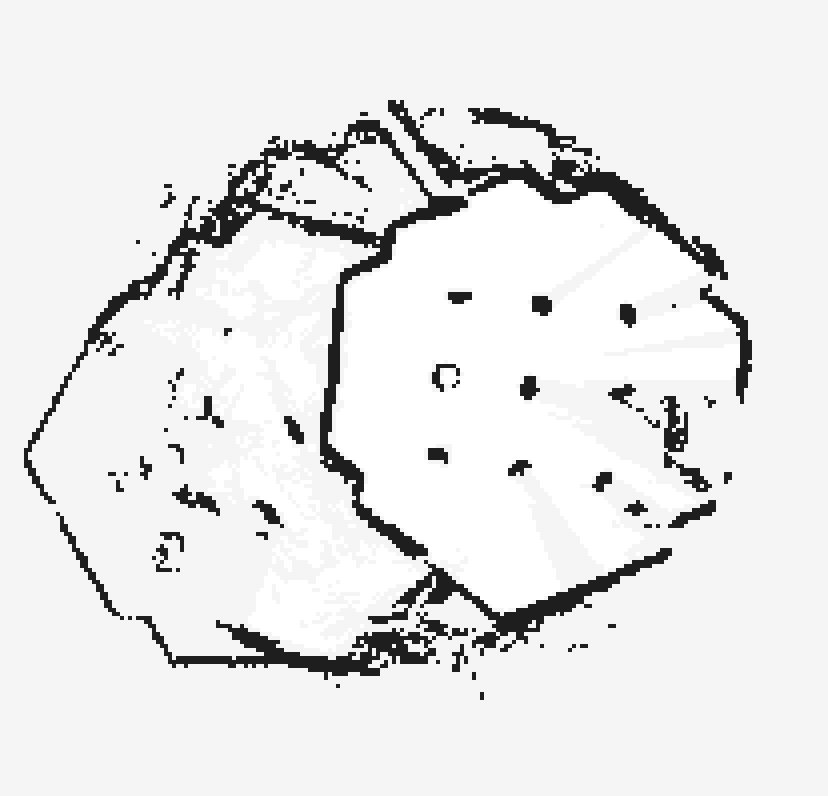
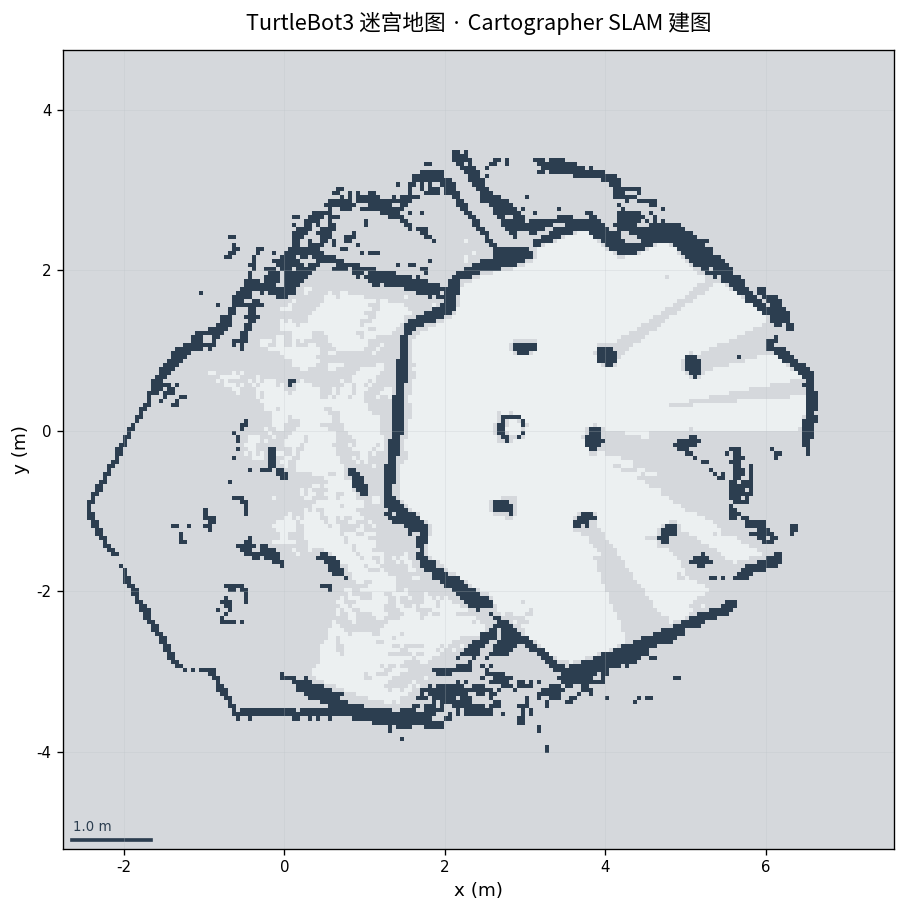
打磨 README：修复章节编号/死链/测试数，新增快速开始，美化地图可视化
- 修复章节编号乱序（### 3 重复、5 后接 3/4）
- 修复文档导航死链（references/ 不存在 → 指向真实 docs/）
- 修正测试数（11 → 15，实测 15 个全通过）
- 新增快速开始章节（算法 + 仿真两条路径）
- 成果表补充 Informed RRT* / 测试数 / 仿真验证
- room_map.png 用 matplotlib 重绘（坐标轴/比例尺/中文字体）

diff --git a/README.md b/README.md
@@ -7,12 +7,13 @@
 
 | 项 | 结果 |
 |---|---|
-| **手写算法库** | A\* / RRT\* / DWA（可独立运行）|
-| **MATLAB 对比** | 同一算法三实现验证 |
+| **手写算法库** | A\* / RRT\* / Informed RRT\* / DWA（可独立运行）|
+| **算法测试** | 15 个测试全部通过 |
+| **MATLAB 对比** | 同一算法三实现交叉验证 |
 | **知识体系** | 7 篇（算法→体系→应用）|
-| **巡检导航** | Gazebo 建图 → Nav2 导航全流程跑通（Ubuntu）|
+| **仿真验证** | Gazebo 建图 → Nav2 导航全流程跑通（Ubuntu）|
 
-![三算法演示](results/algorithms_demo.png)
+![四算法对比演示](results/all_algorithms.png)
 
 ## 🎯 核心方法论
 
@@ -79,7 +80,7 @@ result = plan(planner, start, goal)  # 统一调用
 - DWA 实时避障到达目标
 
 ### 2. 算法测试（可靠性验证）
-**11 个测试全通过**（`tests/`）：
+**15 个测试全通过**（`tests/`）：
 - A*：找路径/无路径/最优性/高效性/平滑
 - RRT*：找路径/达目标/无碰撞
 - DWA：到达目标/避障/输出合理
@@ -100,7 +101,7 @@ result = plan(planner, start, goal)  # 统一调用
 - 手写 A*（324 节点）+ Navigation Toolbox（plannerAStarGrid）
 - **科研意义**：三种实现（Python/MATLAB/Toolbox）交叉验证
 
-### 3. 巡检导航（TurtleBot3 + Nav2）
+### 6. 巡检导航（TurtleBot3 + Nav2 仿真）
 - ✅ 环境搭建（Gazebo + TurtleBot3 + Nav2）
 - ✅ SLAM 建图流程（Cartographer + 自动移动建图）
 - ✅ Nav2 完整导航（Ubuntu 仿真跑通，自主到达目标点）
@@ -112,7 +113,7 @@ result = plan(planner, start, goal)  # 统一调用
 - **实测**：`(0.03,-0.84) → (1.5,1.5)` 与 `(1.5,1.5) → (-1.5,-1.5)` 均自主到达 ✅
 - **踩坑收获**：解决 3 处 ROS2 QoS 兼容性（雷达 BEST_EFFORT / 初始位姿订阅）
 
-### 4. 知识体系（7 篇，算法→体系→应用）
+### 7. 知识体系（7 篇，算法→体系→应用）
 - 01 基础与体系（导航系统全景）
 - 02 全局规划（A*/RRT 原理与对比）
 - 03 局部规划（DWA 实时避障）
@@ -120,6 +121,25 @@ result = plan(planner, start, goal)  # 统一调用
 - 05 导航闭环（MATLAB vs 实际部署）
 - 06 MATLAB 科研实战（A* 对比详解）
 - 07 ROS2 仿真实战（Gazebo 建图 → Nav2 导航 + QoS 踩坑）
+
+## 🚀 快速开始
+
+**算法演示**（纯 Python，无需 ROS）：
+```bash
+pip install -r requirements.txt
+python algorithms/demo_all_algorithms.py   # 四算法对比可视化
+python -m pytest tests/ -q -p no:anyio     # 15 个测试
+```
+
+**仿真验证**（Ubuntu 22.04 + ROS2 Humble，详见 [07-ROS2仿真实战](docs/07-ROS2仿真实战.md)）：
+```bash
+ros2 launch turtlebot3_gazebo turtlebot3_world.launch.py                                  # ① Gazebo 世界
+ros2 launch turtlebot3_cartographer cartographer.launch.py use_sim_time:=True             # ② Cartographer 建图
+python robot/explore_laser.py 90                                                          # ③ 自动探索（激光避障）
+ros2 run nav2_map_server map_saver_cli -f ~/map/room                                      # ④ 保存地图
+ros2 launch turtlebot3_navigation2 navigation2.launch.py map:=~/map/room.yaml use_sim_time:=True  # ⑤ Nav2 导航
+python robot/nav_goal.py 1.5 1.5                                                          # ⑥ 自主导航到目标
+```
 
 ## 🔄 进行中 / 待完善
 
@@ -131,9 +151,14 @@ result = plan(planner, start, goal)  # 统一调用
 
 | 文档 | 内容 |
 |---|---|
-| [作品集方案](references/m5-作品集方案.md) | 调研确认的完整方案 |
-| [知识图谱](references/m5-路径规划知识图谱.md) | 三层认知框架 |
-| [PCB 全景蓝图](references/m5-pcb全景蓝图.md) | 硬件分支规划 |
+| [01-路径规划基础与体系](docs/01-路径规划基础与体系.md) | 导航系统全景 |
+| [02-全局规划算法](docs/02-全局规划算法.md) | A\* / RRT 原理与对比 |
+| [03-局部规划算法](docs/03-局部规划算法.md) | DWA 实时避障 |
+| [04-SLAM建图与定位](docs/04-SLAM建图与定位.md) | AMCL 定位原理 |
+| [05-导航系统闭环与部署](docs/05-导航系统闭环与部署.md) | MATLAB vs 实际部署 |
+| [06-MATLAB科研验证实战](docs/06-MATLAB科研验证实战.md) | A\* 对比详解 |
+| [07-ROS2仿真实战](docs/07-ROS2仿真实战.md) | Gazebo 建图 → Nav2 导航 |
+| [算法对比基准](results/comparison.md) | 手写算法 vs Nav2 量化对比 |
 
 ## License
 
